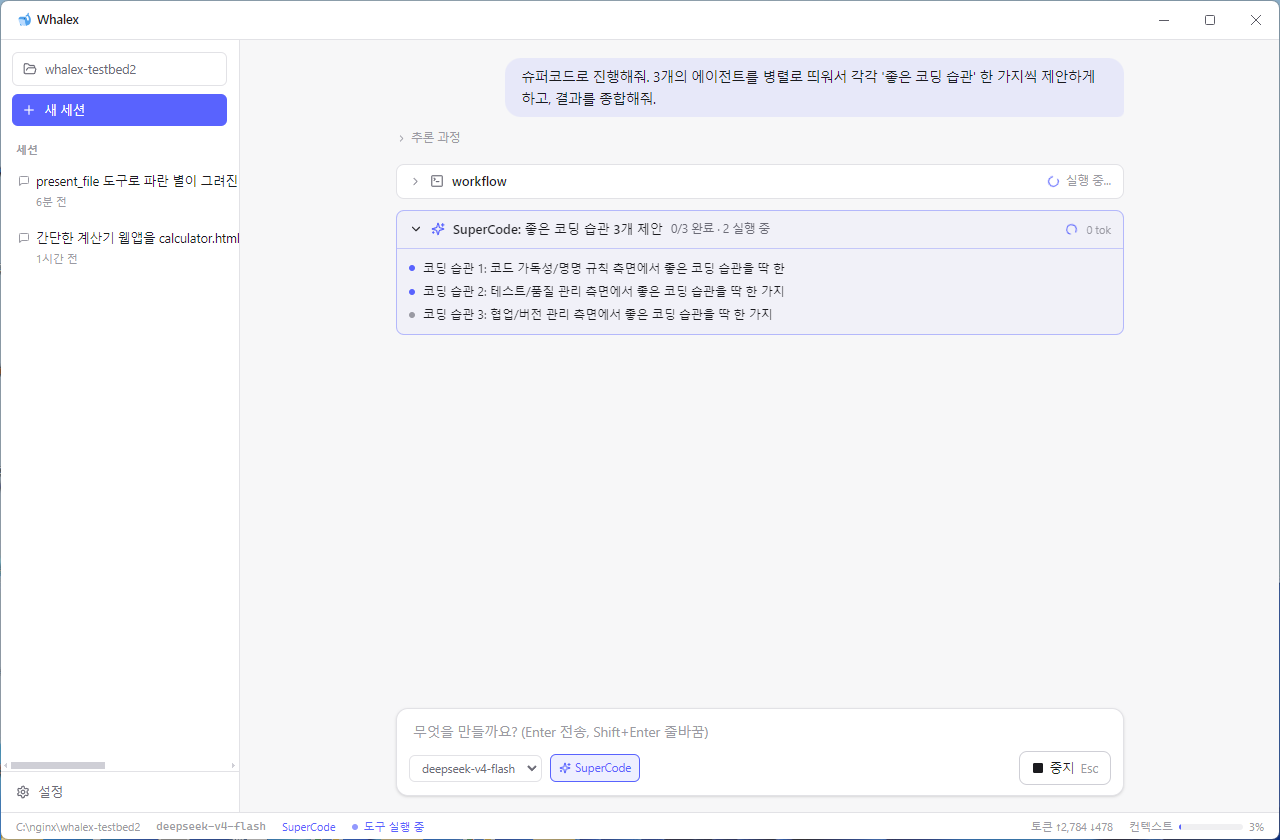
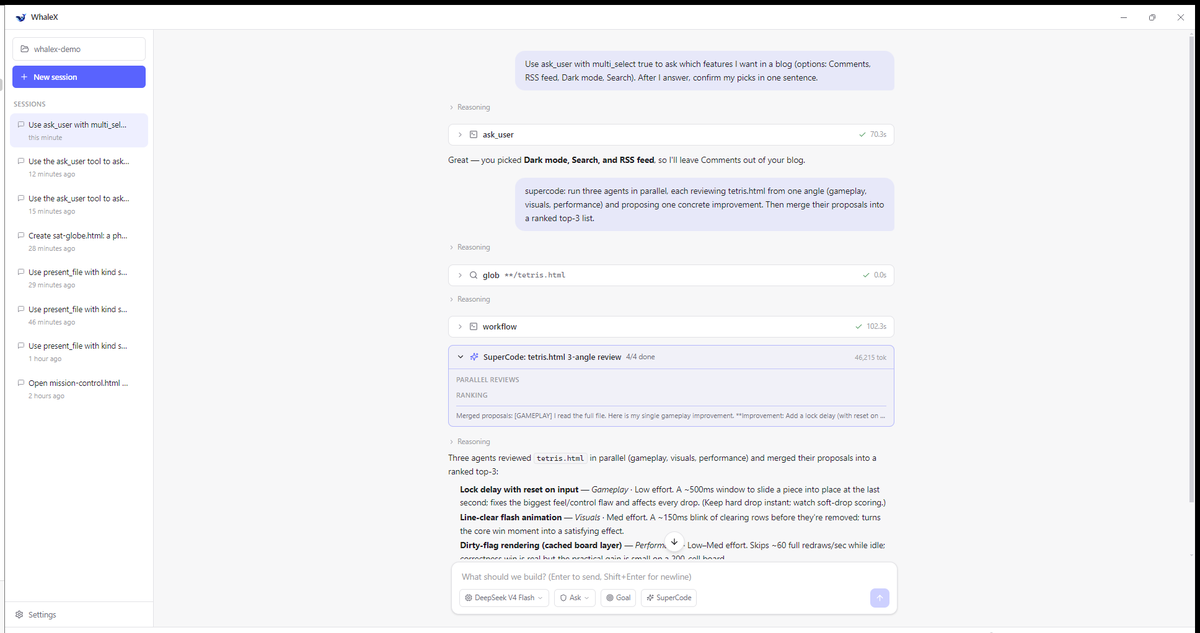
Replace the SuperCode screenshot with a real English run
Three agents review tetris.html in parallel — gameplay, visuals,
performance — and the shot shows the whole shape of the feature: the
scale-gated workflow card, the progress tree at 4/4 done with its token
count, and the merged ranked top-3 the orchestrator hands back. The old
Korean-era capture is gone.

diff --git a/README.md b/README.md
@@ -269,7 +269,7 @@ decision you think about; on DeepSeek rates the same fan-out lands in the range 
 coffee. Cheap tokens are what make "just run twenty agents at it" a reasonable default
 rather than an indulgence.
 
-<img src="docs/screenshots/supercode.png" alt="SuperCode progress tree with phases and per-agent status" width="720">
+<img src="docs/screenshots/supercode.png" alt="A SuperCode run: three agents review tetris.html in parallel, the progress card shows 4/4 done with phases and token count, and the reply merges a ranked top-3" width="900">
 
 ## 🧩 Extend it
 
